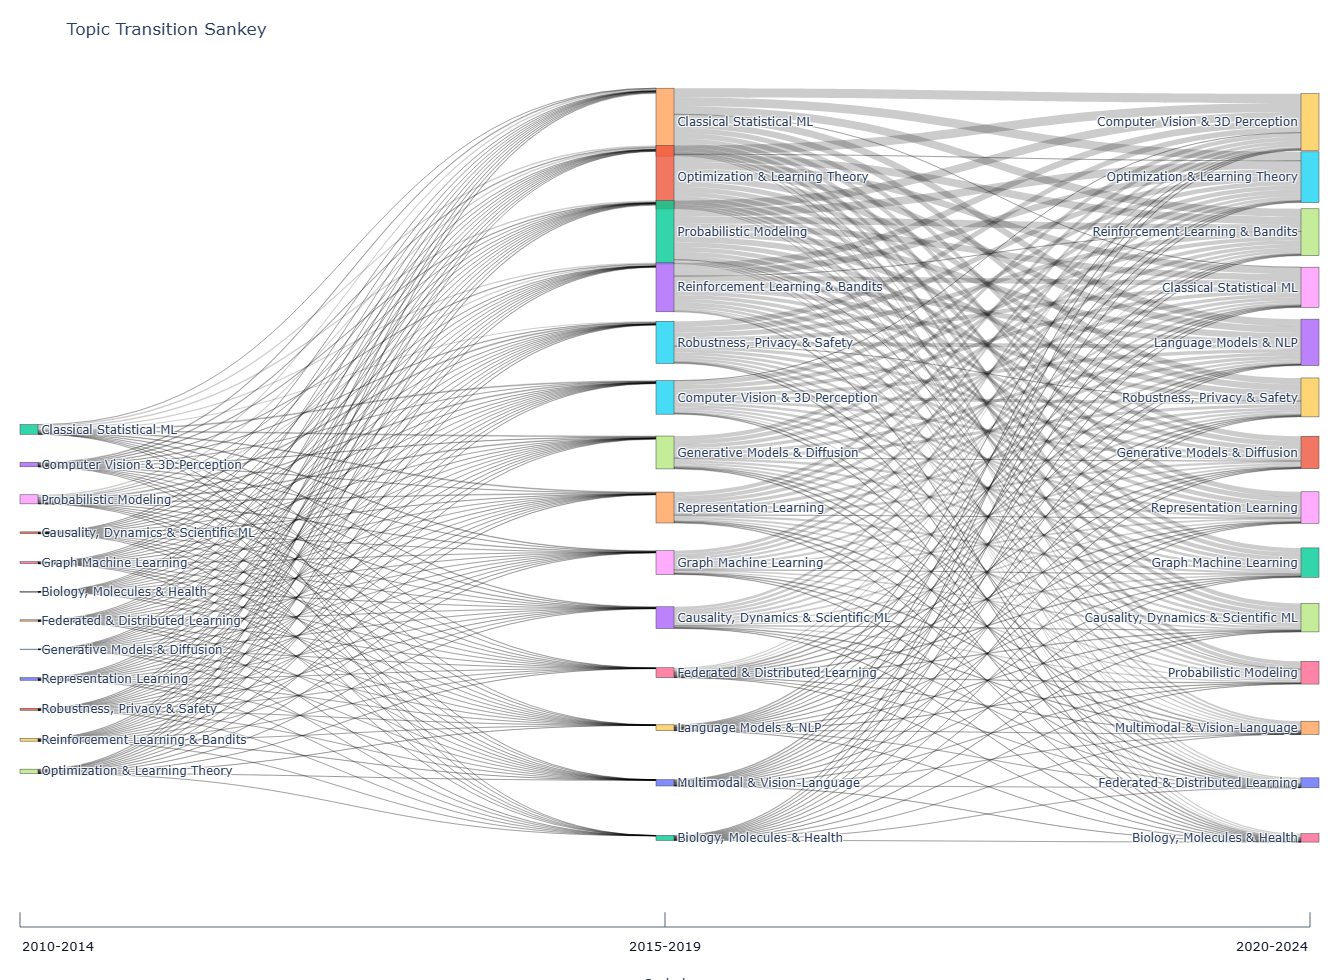
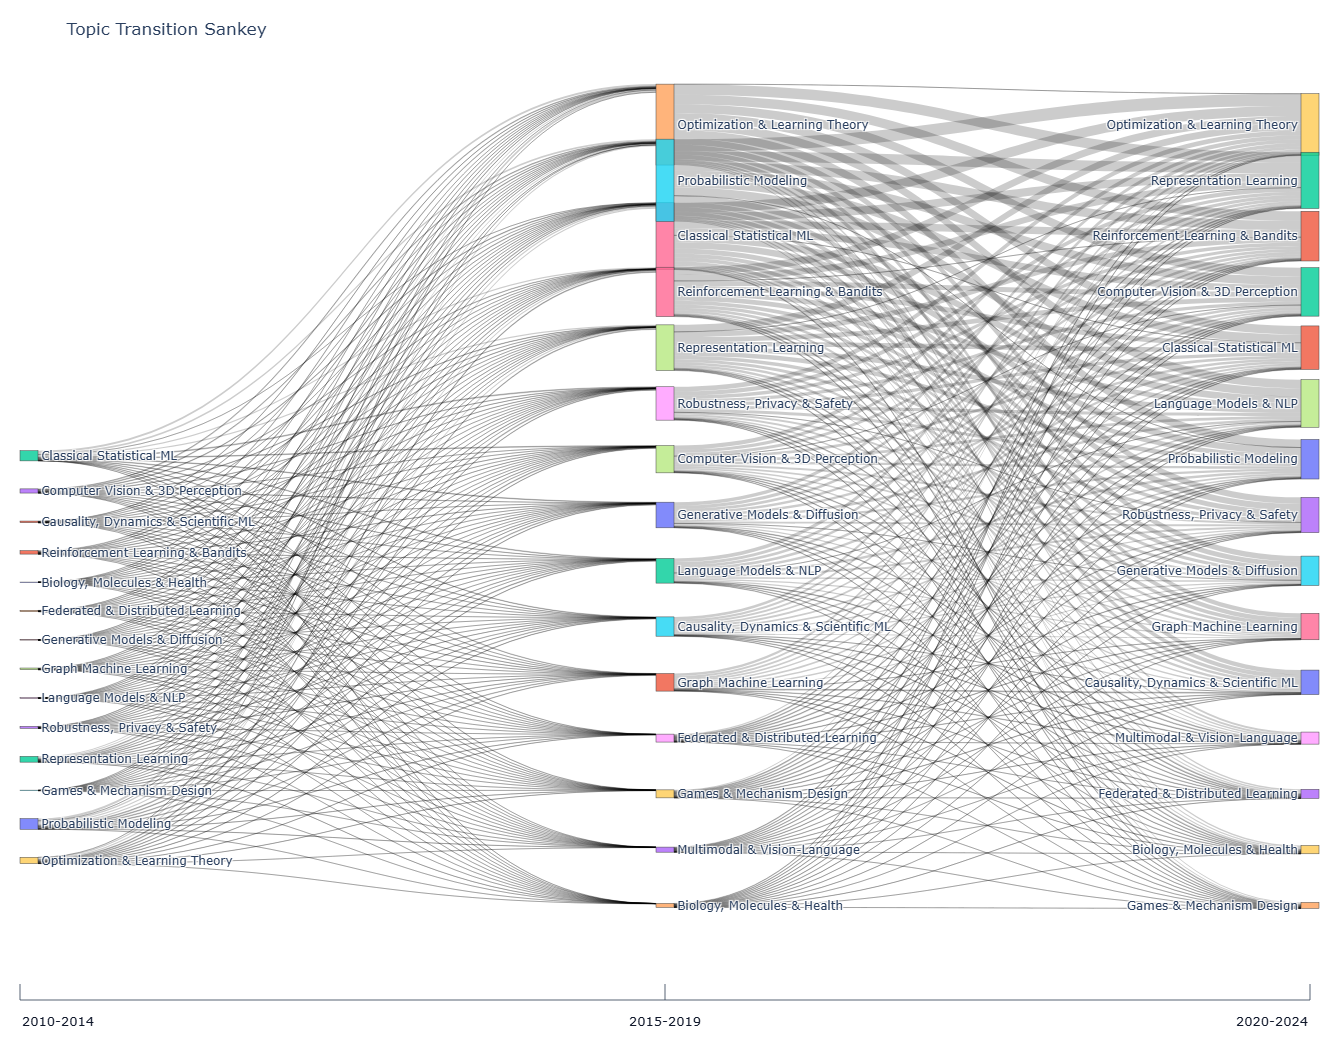
Update coverage summary and NeurIPS preview

diff --git a/README.md b/README.md
@@ -173,17 +173,17 @@ Current coverage for `2010-2024`:
 
 Database:
 
-- overall: `1411 / 3703 = 38.10%`
-- `2010-2014`: `282 / 862 = 32.71%`
-- `2015-2019`: `378 / 1026 = 36.84%`
-- `2020-2024`: `751 / 1815 = 41.38%`
+- overall: `2553 / 3703 = 68.94%`
+- `2010-2014`: `580 / 862 = 67.29%`
+- `2015-2019`: `722 / 1026 = 70.37%`
+- `2020-2024`: `1251 / 1815 = 68.93%`
 
 NeurIPS:
 
-- overall: `2873 / 4654 = 61.73%`
-- `2010-2014`: `210 / 376 = 55.85%`
-- `2015-2019`: `532 / 940 = 56.60%`
-- `2020-2024`: `2131 / 3338 = 63.84%`
+- overall: `3376 / 4654 = 72.54%`
+- `2010-2014`: `253 / 376 = 67.29%`
+- `2015-2019`: `675 / 940 = 71.81%`
+- `2020-2024`: `2448 / 3338 = 73.34%`
 
 
 ## How To Run
@@ -223,7 +223,7 @@ python src/extract_dblp_xml_subset.py ^
 python src/run_pipeline.py ^
   --start-year 2010 ^
   --end-year 2024 ^
-  --manual-raw-file "data/raw/papers.csv" ^
+  --manual-raw-file "data/raw/database/papers.csv" ^
   --period-start 2010 ^
   --period-end 2024 ^
   --period-size 5
@@ -249,4 +249,4 @@ python src/run_pipeline.py ^
 - topic assignment is keyword-based and title-only
 - raw DBLP XML should stay outside the repository
 - venue directories are now the primary organization unit for generated artifacts
-- older root-level output files may remain as legacy artifacts, but new runs write to venue-specific directories
+- generated outputs are stored under `database/` and `neurips/`